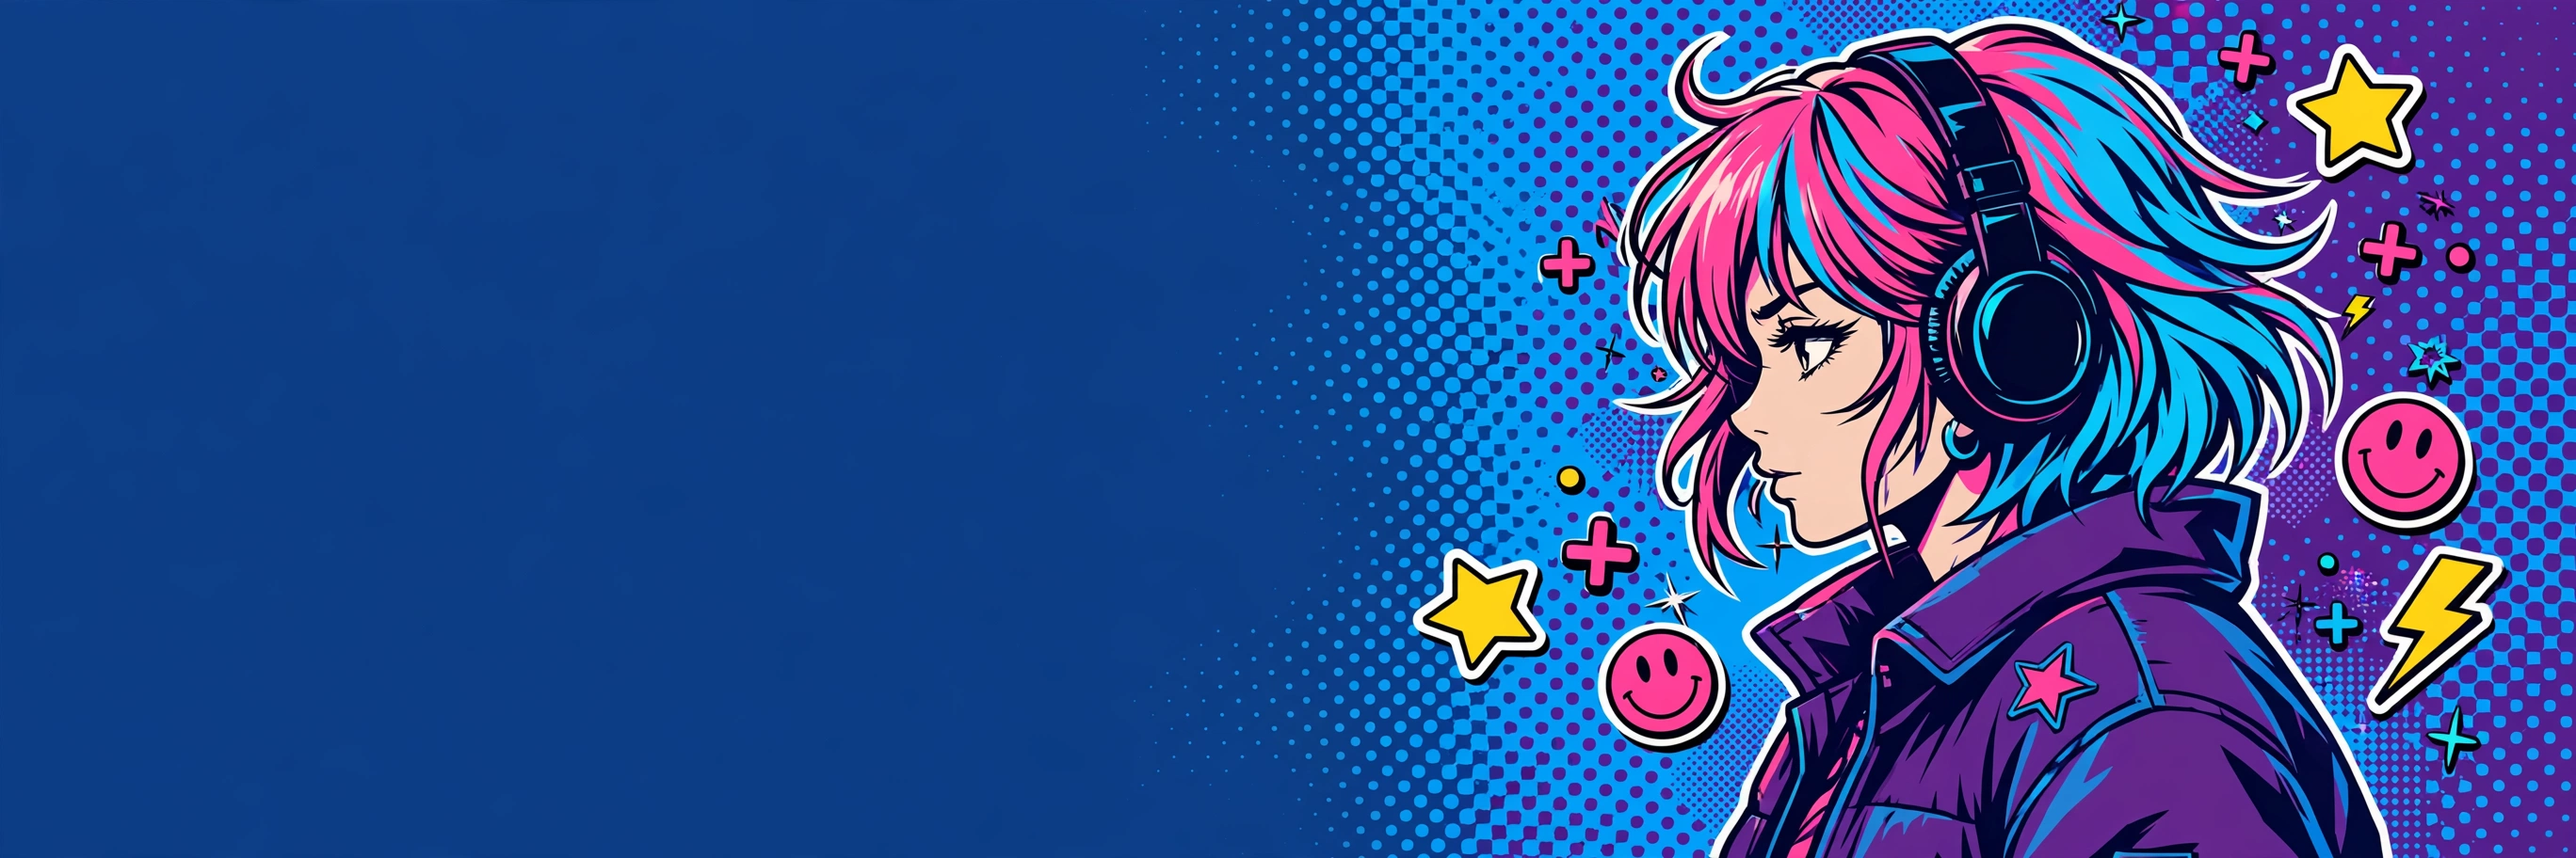
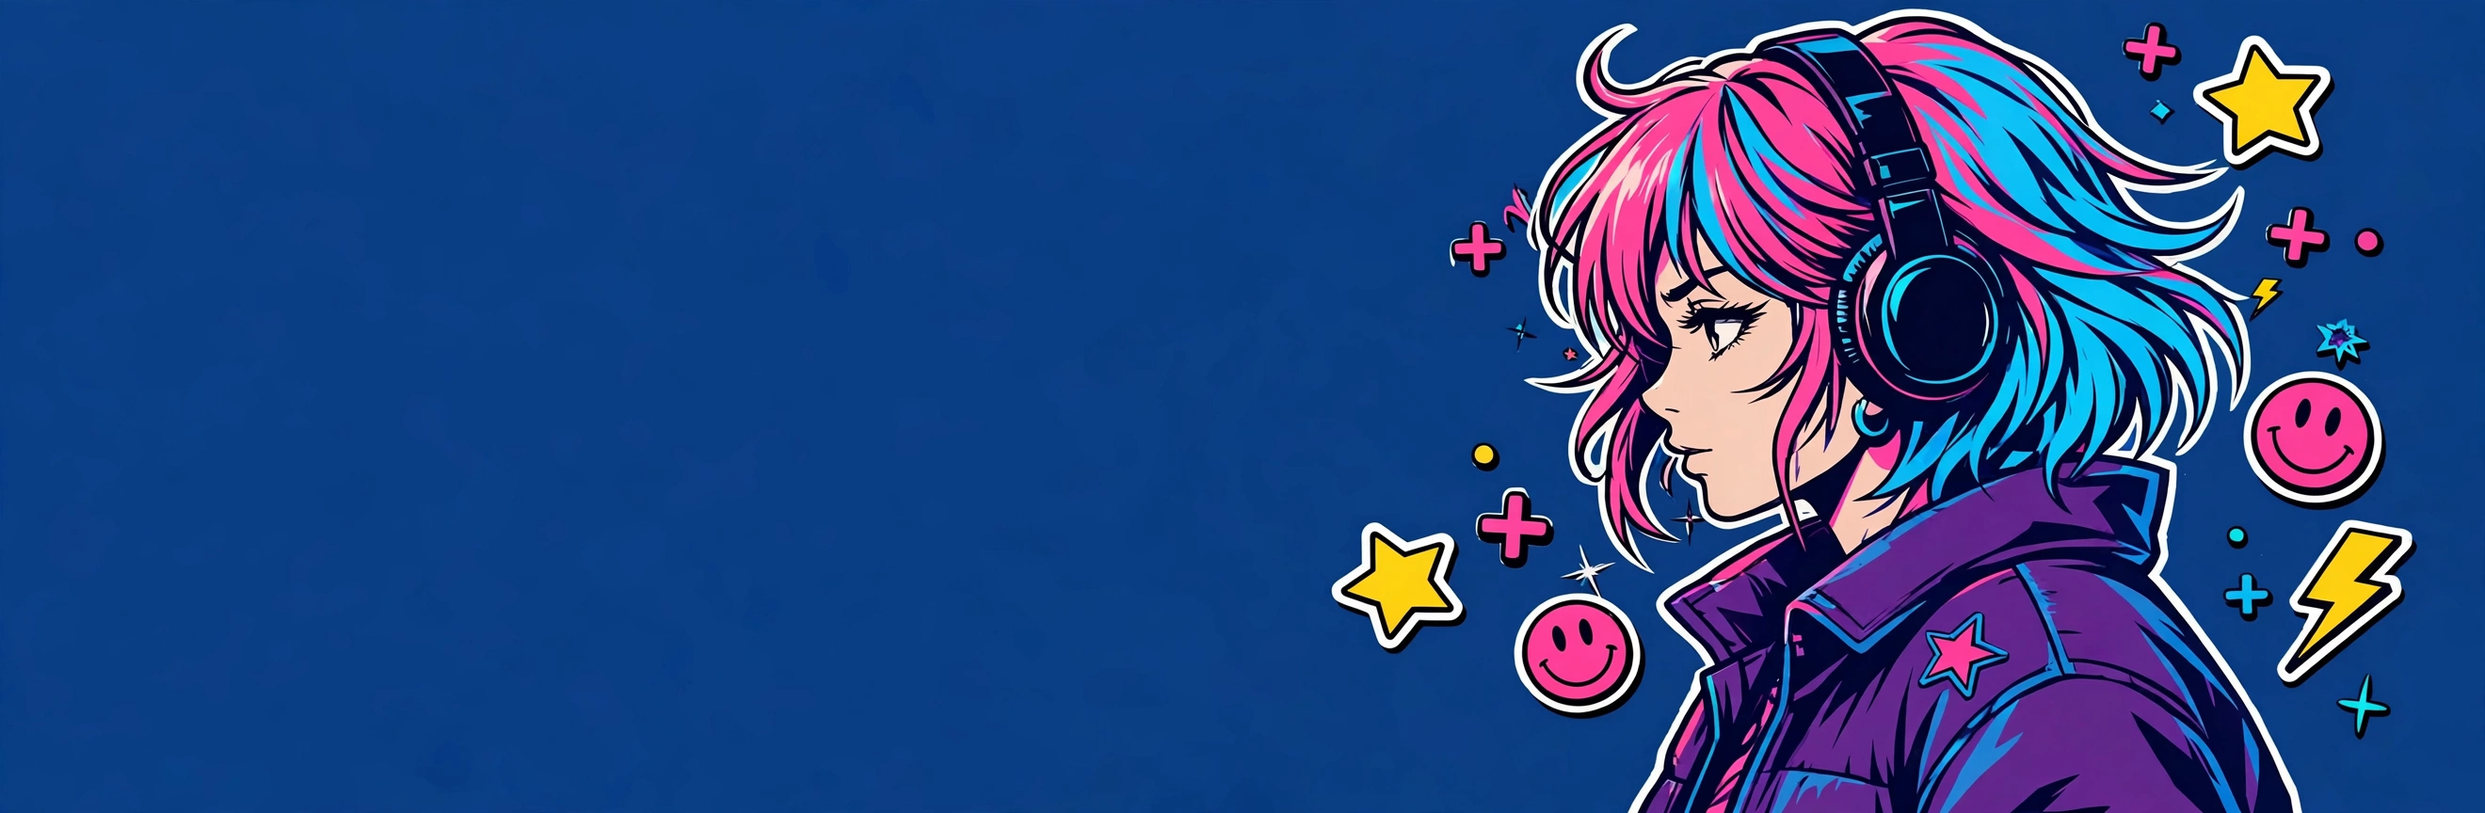
fix(home): 半调点阵与横幅插画分离，点阵改为独立层

diff --git a/src/services/player/spectrum.ts b/src/services/player/spectrum.ts
@@ -229,15 +229,18 @@ export function createSpectrum(
     }
   }
 
-  // 半调点阵：每列对应一个对数频段（低频在左、高频在右，与底栏细柱同一映射），列内点以中线为峰。
-  // 只有实频（live）帧让点的半径与亮度随该列能量起伏；暂停、静态与示例模拟时只画均匀基础小点，不拿模拟数据冒充频峰。
+  // 半调点阵（独立设计层，与横幅插画分离）：点阵自带一个基础剖面——基准半径沿水平方向
+  // 由左向右平滑渐强（靠文案侧渐隐、靠人物侧最密），列内再以中线为峰收边，整体是一块有意
+  // 设计的印刷半调，而不是满铺的均匀噪点。每列对应一个对数频段（低频在左、高频在右，与
+  // 底栏细柱同一映射）；只有实频（live）帧在基础剖面上调制半径与亮度，暂停、静态与示例
+  // 模拟时只画一帧静态基础剖面，不拿模拟数据冒充频峰。
   function paintDots(): void {
     if (!dots || destroyed) return
     const { paint } = dots
     const size = fitCanvas(dots.canvas, paint)
     if (!size) return
     const { width, height } = size
-    const cols = Math.max(48, Math.min(72, Math.round(width / 11)))
+    const cols = Math.max(18, Math.min(56, Math.round(width / 10)))
     const step = width / cols
     const rows = Math.max(4, Math.round(height / step))
     const rowStep = height / rows
@@ -245,9 +248,12 @@ export function createSpectrum(
     const color = currentColor.map(channel =>
       Math.round(channel * 0.7 + 255 * 0.3)
     )
-    const baseRadius = step * 0.1
+    const maxRadius = step * 0.42
     const center = (rows - 1) / 2
     for (let col = 0; col < cols; col++) {
+      // 水平基础剖面：smoothstep 让左缘的点径渐变到零，点阵像印在平涂背景上的一层网屏。
+      const t = cols > 1 ? col / (cols - 1) : 1
+      const hProfile = t * t * (3 - 2 * t)
       let energy = 0
       if (live && levels.length) {
         const start = Math.floor((col / cols) * levels.length)
@@ -259,11 +265,22 @@ export function createSpectrum(
           energy = Math.max(energy, levels[index] ?? 0)
       }
       for (let row = 0; row < rows; row++) {
-        const weight =
+        // 垂直剖面以中线为峰、上下收边，与水平剖面相乘得到点在本列的基准大小。
+        const vProfile =
           rows > 1 ? 1 - Math.abs(row - center) / (center + 1) : 1
-        const lift = live ? energy * weight : 0
-        const radius = baseRadius + lift * step * 0.36
-        const alpha = live ? 0.22 + lift * 0.55 : 0.3
+        const profile = hProfile * vProfile
+        const baseRadius = maxRadius * profile
+        if (baseRadius < 0.4) continue
+        // live 时能量在基准上放大点径并提亮；剖面薄的左侧靠提亮呈现低频脉动，不撑大点径。
+        const radius = live
+          ? Math.min(step * 0.46, baseRadius * (0.5 + 1.05 * energy))
+          : baseRadius
+        const alpha = live
+          ? Math.min(
+              0.88,
+              0.12 + 0.3 * profile + 0.5 * energy * (0.35 + 0.65 * hProfile)
+            )
+          : 0.1 + 0.3 * profile
         paint.fillStyle = `rgba(${color.join(',')},${alpha.toFixed(3)})`
         paint.beginPath()
         paint.arc((col + 0.5) * step, (row + 0.5) * rowStep, radius, 0, Math.PI * 2)

diff --git a/src/pages/index/components/featured-banner.vue b/src/pages/index/components/featured-banner.vue
@@ -101,7 +101,7 @@ function onPlay(): void {
       />
     </div>
 
-    <!-- 半调点阵层：压在插画半调区上方、内容之下，左侧以 mask 渐隐避开文案列。 -->
+    <!-- 半调点阵层：独立于插画的一层，落在文案列与人物之间的中段空白带，左侧以 mask 渐隐避开文案列。 -->
     <HalftoneDots class="banner-dots" />
 
     <!-- 展开态文案列：日期 kicker、时段问候、日推摘要与主操作自上而下排布，折叠时整列让位给迷你条。 -->
@@ -207,17 +207,27 @@ function onPlay(): void {
 <style scoped>
 .banner-caption { pointer-events: none; }
 
-/* 半调点阵层：只占右侧人物周边，左缘 mask 渐隐不碰文字区；位于插画之上、内容（z-index 2）之下，文案始终压在点阵上方。 */
+/* 半调点阵层：只占中段桥接带——文案列右侧到人物脸前方的平涂空白，上下留边不铺满高；
+   左缘 mask 再渐隐一道，与点阵自身的基础剖面（左小右大）叠出干净的收尾。
+   位于插画之上、内容（z-index 2）之下，文案始终压在点阵上方。 */
 .banner-dots {
   position: absolute;
   z-index: 1;
-  top: 0;
-  right: 0;
-  bottom: 0;
-  width: 62%;
+  top: 14%;
+  /* 组件自带 height:100%，这里显式给高让上下留边真正生效，剖面中心回到横幅中线。 */
+  height: 72%;
+  left: 35%;
+  width: 25%;
   mask-image: linear-gradient(90deg, transparent, #000 26%);
   -webkit-mask-image: linear-gradient(90deg, transparent, #000 26%);
   pointer-events: none;
+}
+/* 窄窗时人物右偏、文案列变宽，桥接带随之右移收窄，继续躲开标题与人物脸。 */
+@container (max-width: 700px) {
+  .banner-dots {
+    left: 42%;
+    width: 22%;
+  }
 }
 /* 折叠成迷你条后点阵整层隐藏：画布归零后频谱服务自然停画，不在迷你条上空耗。 */
 .main.compact .banner-dots {

diff --git a/src/components/ui/HalftoneDots.vue b/src/components/ui/HalftoneDots.vue
@@ -1,7 +1,7 @@
 <script setup lang="ts">
 // 半调点阵画布宿主：自身不算数据，绘制由播放器频谱服务按横幅 canvas 相同的绑定方式接管
 // （catalog-audio 通过 [data-halftone-dots] 找到这块画布交给 createSpectrum）。
-// 只有真实 AnalyserNode 数据（live 模式）会让点阵动起来；暂停、未播放或示例曲目时服务只画一帧基础小点。
+// 只有真实 AnalyserNode 数据（live 模式）会让点阵动起来；暂停、未播放或示例曲目时服务只画一帧静态基础剖面。
 </script>
 <template>
   <canvas class="halftone-dots" data-halftone-dots aria-hidden="true" />
